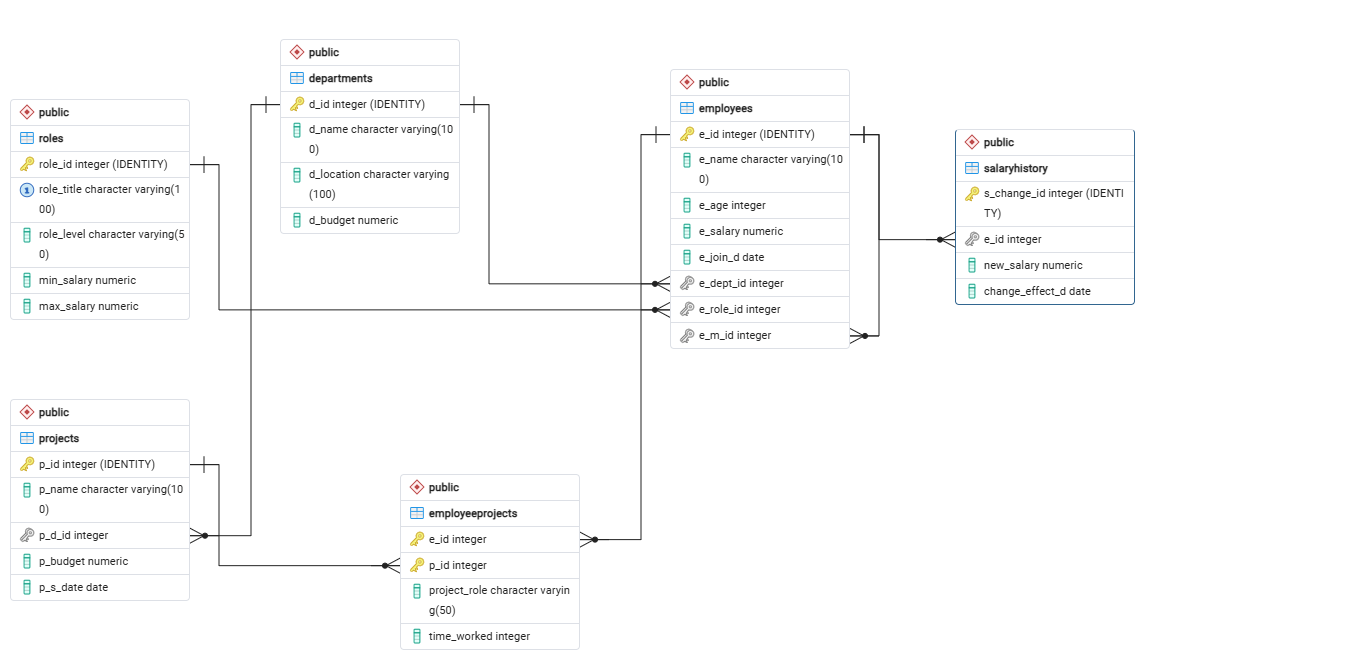
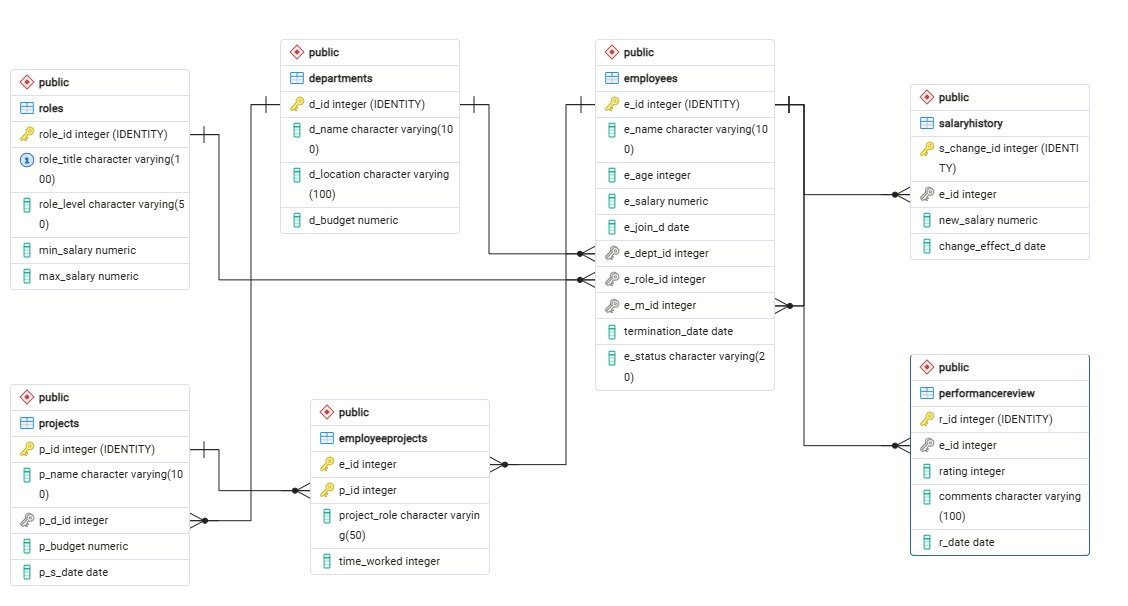
added performancereview table , a index for it and created a trigger for the same to implement salary hike based on performance

diff --git a/README.md b/README.md
@@ -14,6 +14,7 @@ To avoid foreign key dependency errors, execute the SQL files in this exact orde
 4. `Schema/04_employees_table.sql`
 5. `Schema/05_employeeprojects_table.sql`
 6. `Schema/06_salaryhistory_table.sql`
+7. `Schema/07_07_Performance_review_table.sql`
 
 ## Database Automation & Triggers
 The schema includes PL/pgSQL triggers to maintain audit logs and automate updates:
@@ -21,12 +22,21 @@ The schema includes PL/pgSQL triggers to maintain audit logs and automate update
 1. **`Employee Table Triggers`**
 * **Target:** `employees` table (`after insert`)
 * **`new_employee_after_insert_trigger`Function:** Automatically creates an initial joining salary in `salaryhistory` whenever a new employee is hired.
-
 2. **`trigger_salary_change_entry`**
    * **Target:** `salaryhistory` table (`before insert`)
-   * **Function:**  automatically syncs new compensation back to the `employees` table, and prevents historical/backdated raise inserts from overwriting current employee salaries.
+   * **Function:**  automatically syncs new salary hike back to the `employees` table, and prevents historical/backdated raise inserts from overwriting current employee salaries.
 3. **`min_and_max_salary_trigger`**
    * **Target:** `employees` table (`before insert or update`)
    * **Function:**  automatically validates if the salary entered for a employee falls within the companies allowed limit for that role. update part takes care of `trigger_salary_change_entry` trying to update salary to also fall within the allowed limit.
+4. **`performance_review_salary_update`**
+   * **Target:** `performancereview` table (`after insert`)
+   * **Function:**  automatically computes salary hike once a year  based on review and inserts records in `salaryhistory`table which in turn updates `employee` tables using previous trigger `trigger_salary_change_entry` .
+
+## Constraints & Indexes
+
+1.**`idx_unique_active_review`** (or your index name)
+  * **Target:** `performancereview` (`e_id`, `r_date`)
+  * **Purpose:** to implement one review and one salary hike per year per employee
+   
 
 
